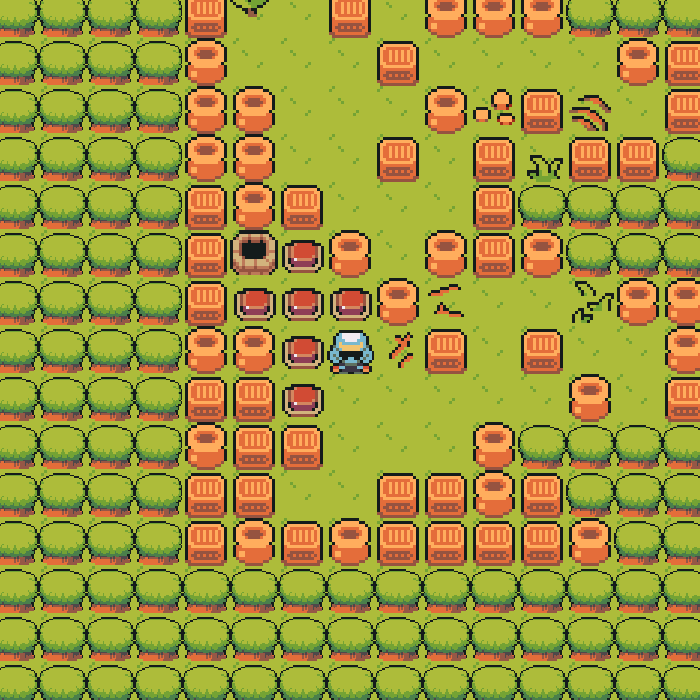
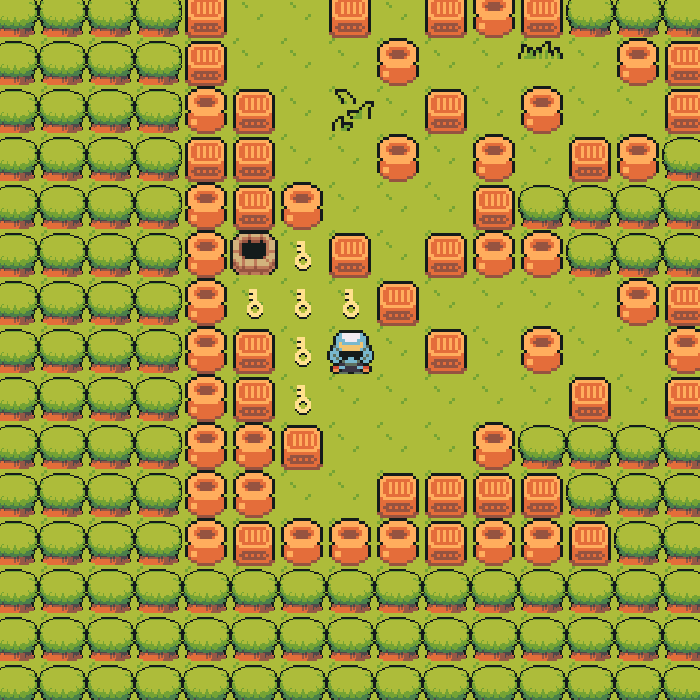
Portal rework

diff --git a/player.py b/player.py
@@ -16,6 +16,7 @@ class Player(DynamicGameObject):
         self.moneyCounter = 0
         self.buttonDown = False
         self.killer = None  # Тот кто убил персонажа
+        self.has_key = False
 
     def update(self, *args):
         if args and (args[0].type == pygame.JOYHATMOTION or args[0].type == 1536):
@@ -100,21 +101,23 @@ class Player(DynamicGameObject):
                 self.update_sprite(3)
             self.image = self.frames[self.cur_frame]
             if args[0].key == self.game.settings.bindsKeyBoard['interact']:
-                for ladder in self.game.ladders_group:
+                self.game.level[self.coord.y][self.coord.x].use()
+                '''for ladder in self.game.ladders_group:
                     if ladder.coord == self.coord:
                         ladder.use()
-                        break
+                        break'''
         self.check(self.coord.x, self.coord.y)
 
     def check(self, x, y):
         try:
             _type = type(self.game.level[y][x])
+            '''
             if _type == Key and not self.key:
                 self.key = True
             elif _type == Door and self.key:
                 self.game.level[y][x].unLock()
-                self.key = False
-            elif _type == Spikes:
+                self.key = False'''
+            if _type == Spikes:
                 if self.game.level[y][x].isActive():
                     self.killer = self.game.level[y][x]
             elif _type == Coin:
@@ -124,6 +127,9 @@ class Player(DynamicGameObject):
             return self.game.level[y][x].stepOn(self)
         except IndexError:
             return False
+
+    def pick_up_key(self):
+        self.has_key = True
 
     def isDead(self):
         return self.killer

diff --git a/key.py b/key.py
@@ -1,3 +1,5 @@
+import pygame
+
 from staticGameObject import StaticGameObject
 import mixer as mx
 
@@ -5,14 +7,19 @@ import mixer as mx
 class Key(StaticGameObject):
     def __init__(self, sheet, pos_x, pos_y, game, cols, rows):
         super().__init__(sheet, pos_x, pos_y, game, cols, rows)
-        self.rect = self.image.get_rect().move(game.tile_width * pos_x + 1, game.tile_height * pos_y + 1)
+        r = pygame.Rect(game.tile_width * pos_x + 1, game.tile_height * pos_y + 1, 48, 48)
+        self.rect = self.image.get_rect()
+        self.rect.center = r.center
         self.solid = True
         self.isActive = True
 
     def stepOn(self, entity):
         if self.isActive:
-            mx.mixer.play('openDoor', loops=0)
+            self.game.player.pick_up_key()
             self.isActive = False
-            self.update_sprite(1)
-        self.isActive = False
+            self.kill()
         return self.solid
+
+    def use(self):
+        if self.isActive:
+            self.game.player.pick_up_key()

diff --git a/game.py b/game.py
@@ -59,7 +59,8 @@ class Game:
             'fon': pygame.transform.scale(functions.load_image('fon.png'), (self.width, self.height)),
             'sliderDot': functions.load_image('sliderDot.png'),
             'sliderLine': functions.load_image('sliderLine.png'),
-            'coin': pygame.transform.scale(functions.load_image('coin.png'), (128, 32))
+            'coin': pygame.transform.scale(functions.load_image('coin.png'), (128, 32)),
+            'key_test': pygame.transform.scale(functions.load_image('key(test).png'), (32, 32))
         }
         self.activeMenu = False
         self.activeOptionsMenu = False

diff --git a/door.py b/door.py
@@ -1,5 +1,6 @@
 import pygame
 from staticGameObject import StaticGameObject
+import mixer as mx
 
 
 class Door(StaticGameObject):
@@ -11,8 +12,11 @@ class Door(StaticGameObject):
     def unLock(self):
         self.lock = False
 
-    def stepOn(self, entity):
-        if not self.lock:
+    def use(self):
+        if self.lock:
+            if self.game.player.has_key:
+                self.unLock()
+                mx.mixer.play('openDoor', loops=0)
+                return
+        else:
             self.game.end_screen(True)
-            return self.solid
-        return True

diff --git a/functions.py b/functions.py
@@ -95,7 +95,7 @@ def generate_level(level, game, inHouse):
             elif level[y][x] == '%':
                 new_level[y][x] = Door('door', x, y, game, closed, 1, 1)
             elif level[y][x] == 'K':
-                new_level[y][x] = Key('key', x, y, game, 2, 1)
+                new_level[y][x] = Key('key_test', x, y, game, 1, 1)
             elif level[y][x] == 'T':
                 new_level[y][x] = Tree('tree', x, y, game, 1, 1)
             elif level[y][x] == '$':

diff --git a/coin.py b/coin.py
@@ -12,7 +12,7 @@ class Coin(StaticGameObject):
     def stepOn(self, entity):
         if self.active:
             self.active = False
-            self.game.all_sprites.remove(self)
+            self.kill()
         self.active = False
         return self.solid
 
